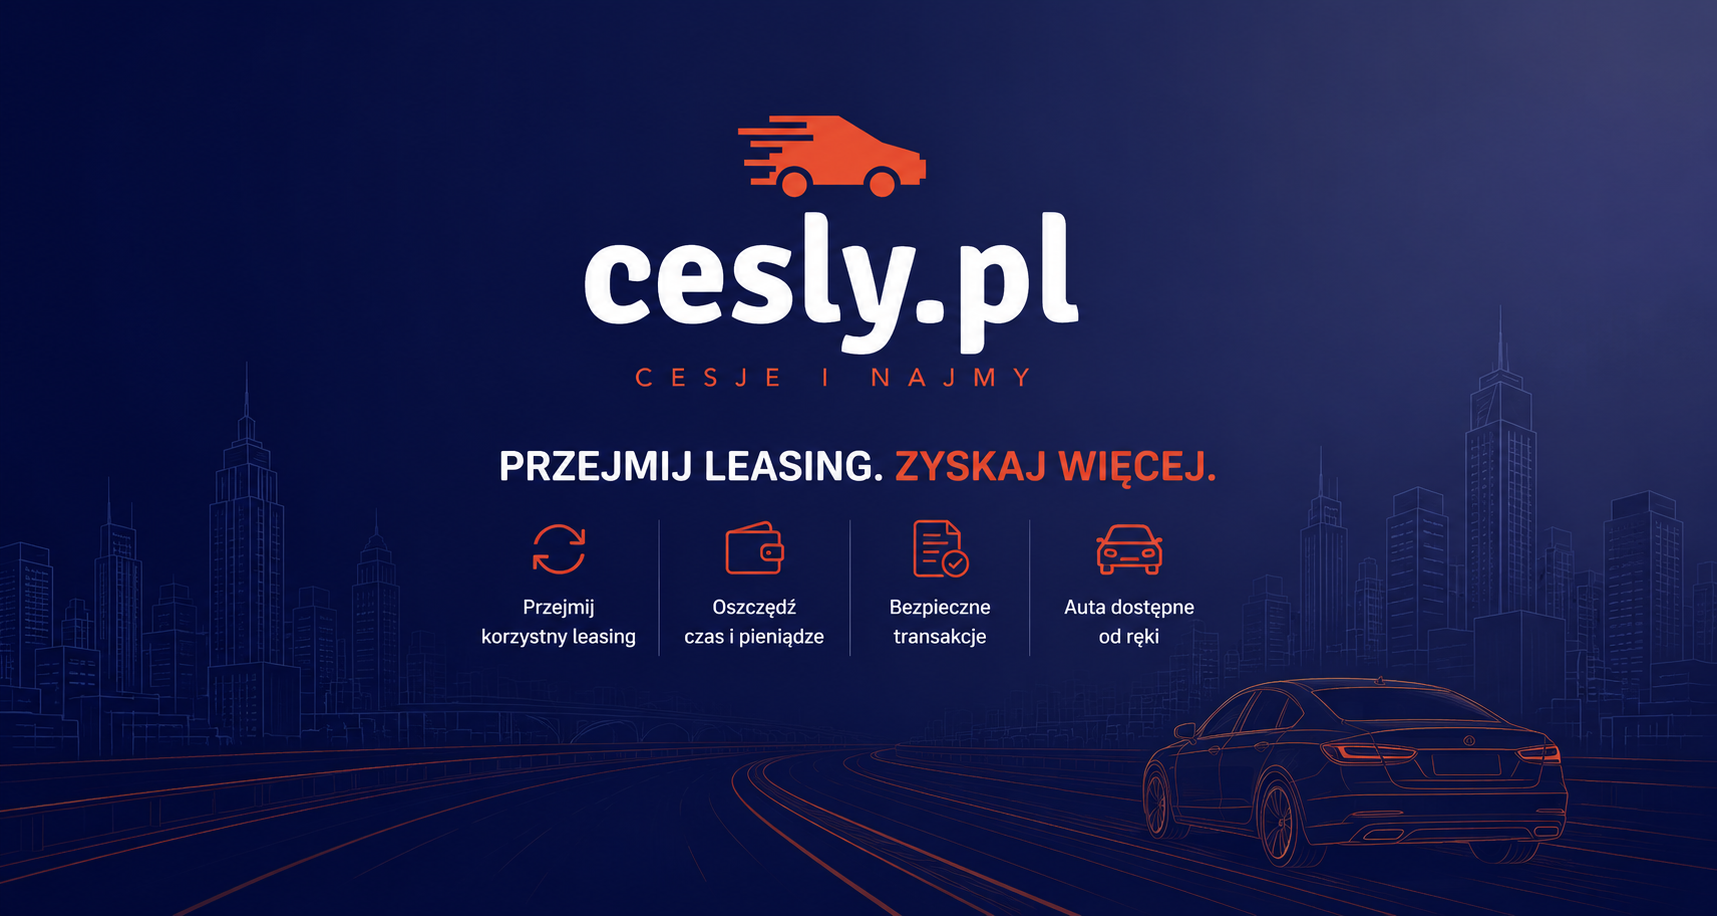
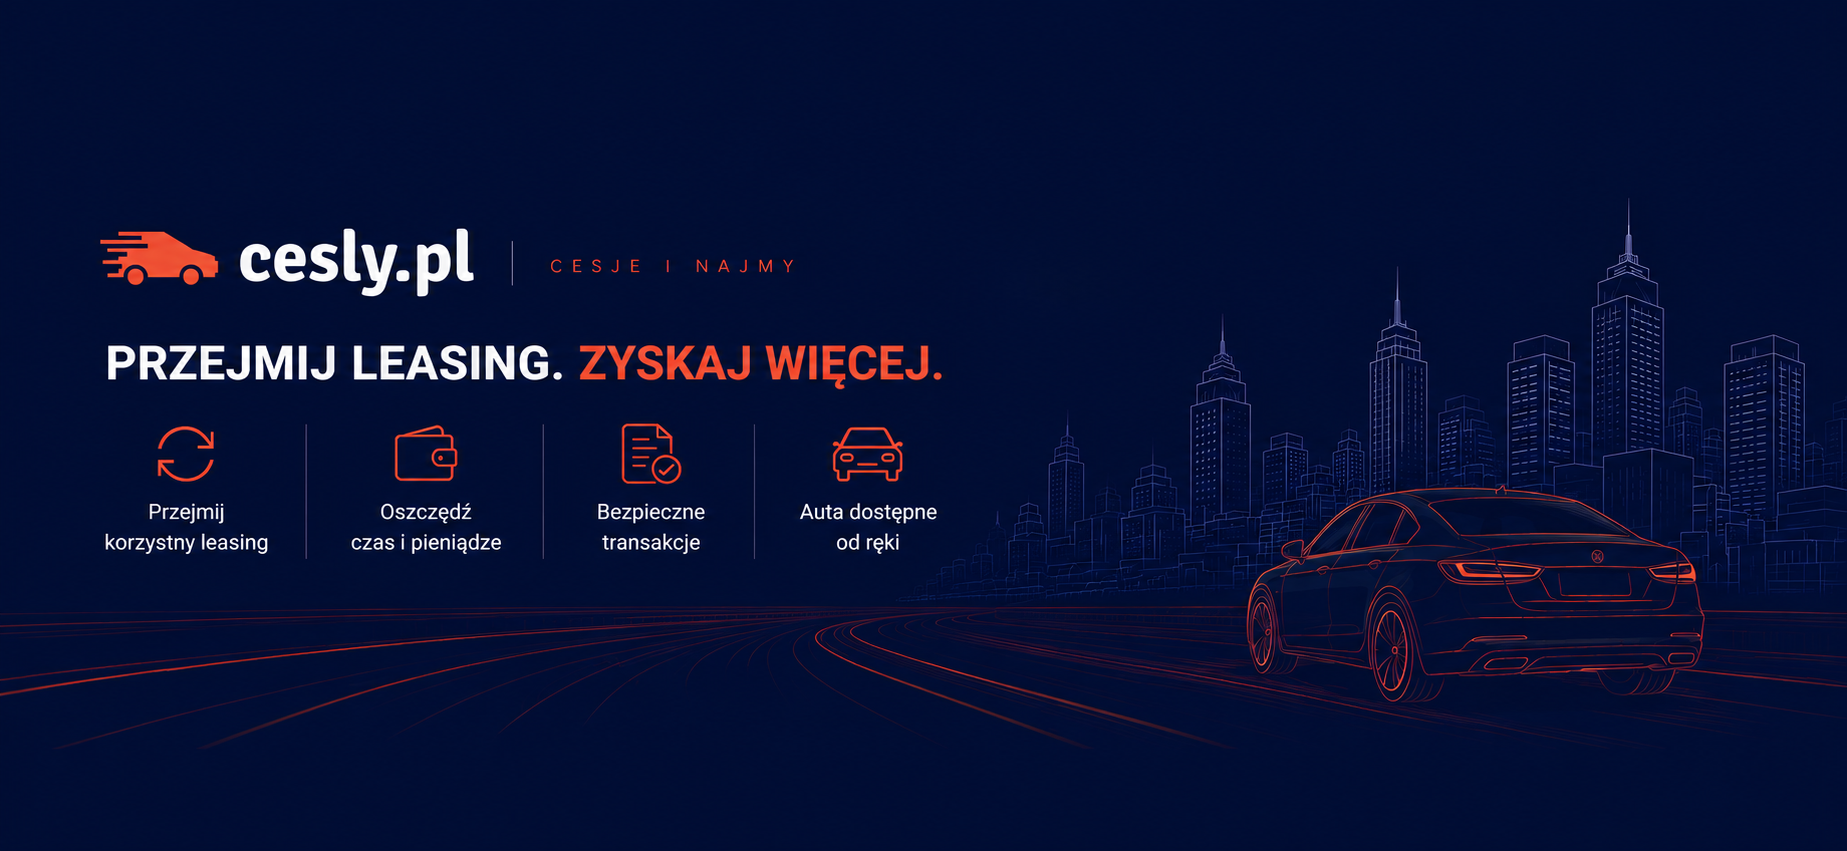
Replace hero graphic with new wide version, render at full width
Swapped in the new hero-bg.png (1847x851) and removed the max-width
cap on the hero <img> so it renders edge-to-edge at the container's
full width instead of being shrunk into a small centered box.

diff --git a/src/components/HomePage.tsx b/src/components/HomePage.tsx
@@ -377,12 +377,12 @@ export function HomePage({ onViewListing, initialFilters }: HomePageProps) {
       </div>
 
       <section className="relative overflow-hidden bg-gradient-to-tr from-brand-navy to-brand-navy-light">
-        <div className="relative w-full max-w-7xl mx-auto px-4 sm:px-6 lg:px-8 pt-4 pb-6 flex flex-col items-center">
-          <img
-            src="/hero-bg.png"
-            alt="Cesly.pl – Cesje i najmy. Przejmij leasing, zyskaj więcej."
-            className="w-full max-w-md md:max-w-xl h-auto"
-          />
+        <img
+          src="/hero-bg.png"
+          alt="Cesly.pl – Cesje i najmy. Przejmij leasing, zyskaj więcej."
+          className="w-full h-auto block"
+        />
+        <div className="relative w-full max-w-7xl mx-auto px-4 sm:px-6 lg:px-8 pb-6 flex flex-col items-center">
           <div className="flex items-center gap-8 text-sm bg-black/30 backdrop-blur-sm rounded-full px-6 py-2.5 mt-2">
             <div className="flex items-center gap-2">
               <TrendingUp className="w-5 h-5 text-amber-400" />